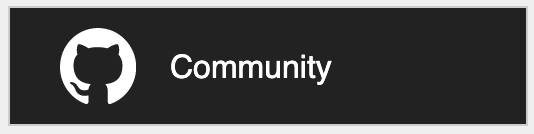
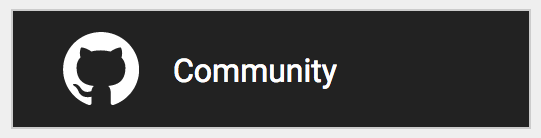
fix for https://github.com/wso2/docs-apim/issues/1313 fixed img size

Changed region(s): [[0.0, 0.0299, 0.9888, 0.9552], [0.0899, 0.209, 0.2697, 0.7761], [0.2996, 0.3881, 0.6292, 0.6567]]

diff --git a/en/docs/install-and-setup/install/installing-the-product/installing-the-product.md b/en/docs/install-and-setup/install/installing-the-product/installing-the-product.md
@@ -10,7 +10,7 @@ The following are the available methods to install WSO2 API Manager via the [WSO
 </td>
 <td> 
 <a href="{{base_path}}/install-and-setup/install/installing-the-product/installing-via-the-installer">
-<img src="{{base_path}}/assets/img/setup-and-install/installer.jpg" width="280" height="80" />
+<img src="{{base_path}}/assets/img/setup-and-install/installer.png" width="480" height="80" />
 </td>
 
 </tr>
@@ -37,8 +37,7 @@ The following are the available methods to install WSO2 API Manager via the [WSO
 </td>
 
 <td>
-<a href="{{base_path}}/install-and-setup/install/installing-the-product/installing-the-binary/installing-on-linux-or-os-x">
-<img src="{{base_path}}/assets/img/setup-and-install/binary.png" width="280" height="80" /></a>
+<img src="{{base_path}}/assets/img/setup-and-install/binary.png" width="380" height="80" />
 </td>
 <tr>
 </table>
